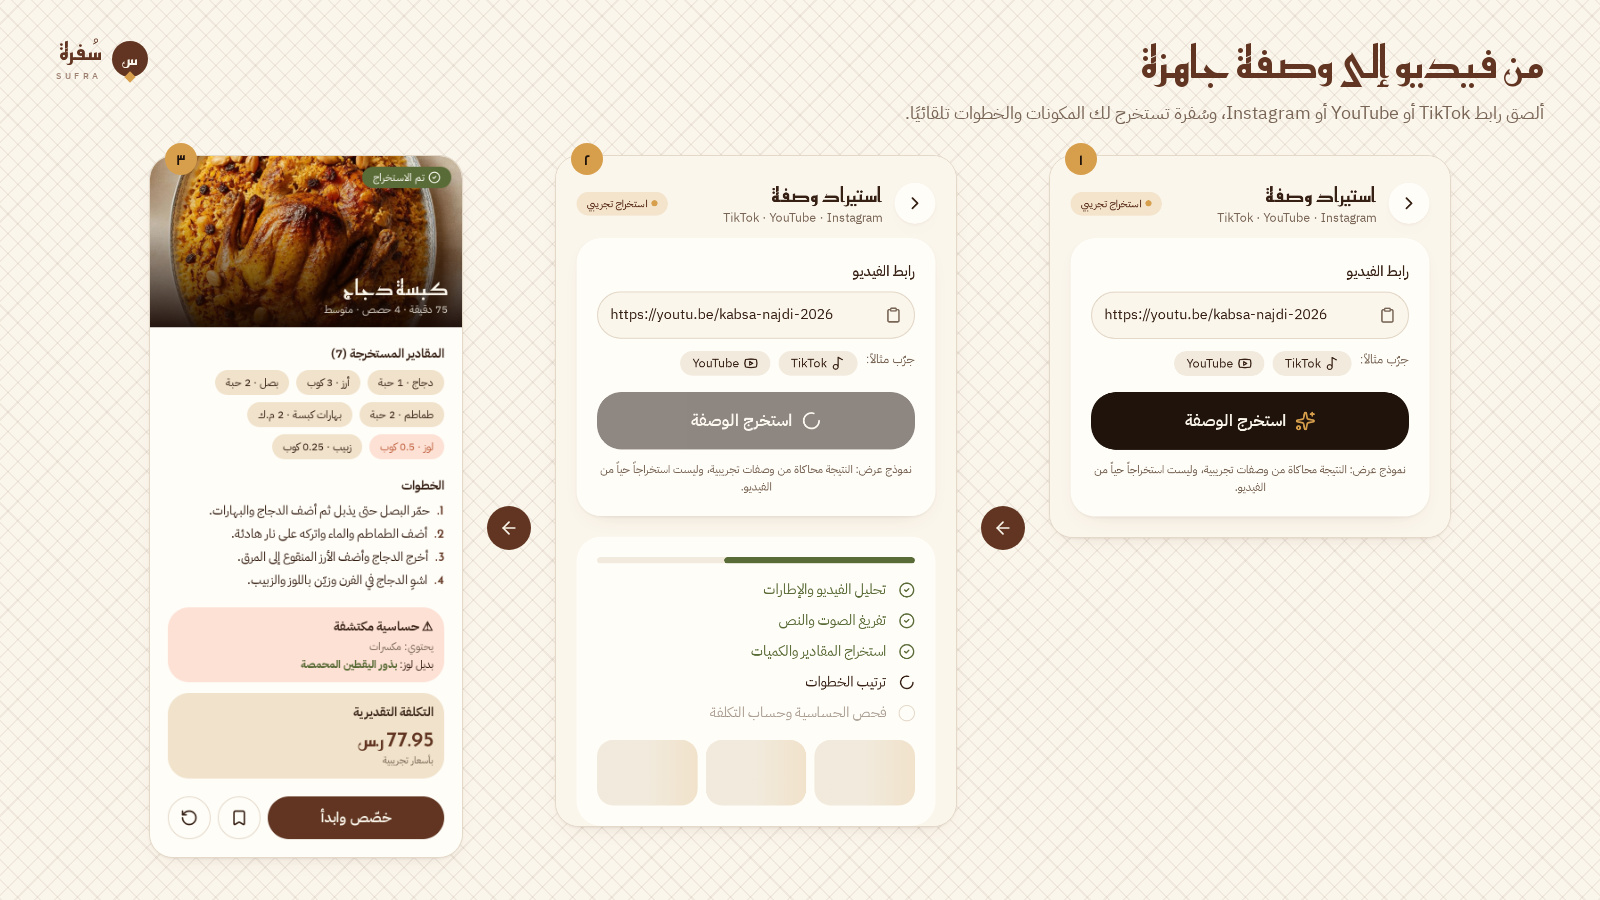
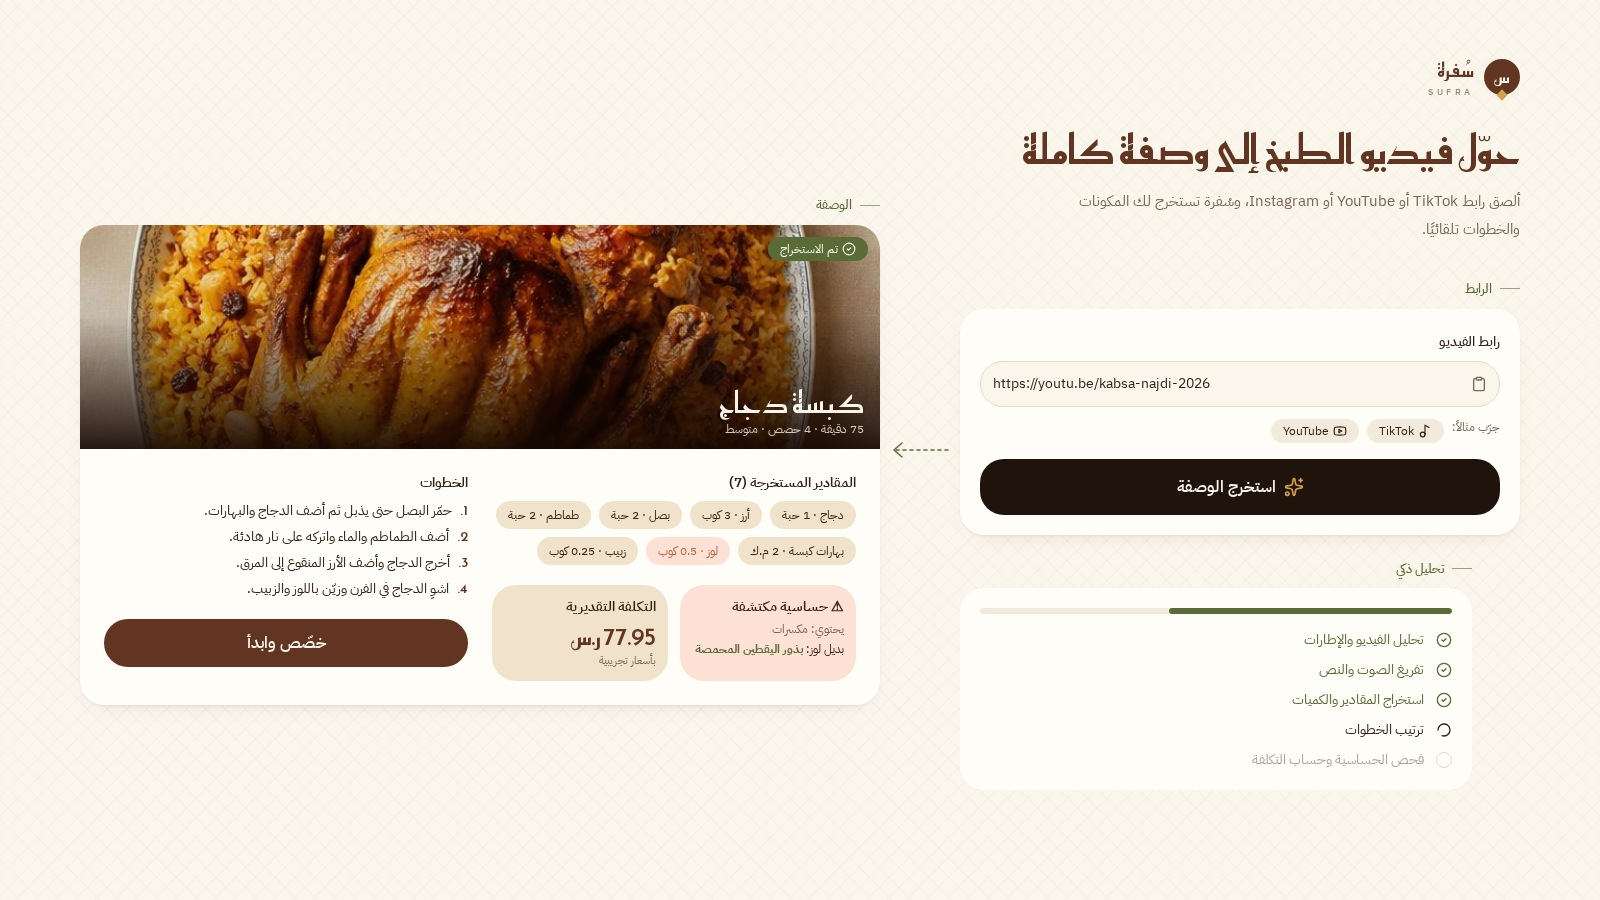
Changes

diff --git a/src/components/ImportParts.tsx b/src/components/ImportParts.tsx
@@ -93,7 +93,7 @@ export function ImportResultCard({ rid, allergies, actions, layout = "stack", im
   );
   return (
     <article className="animate-in fade-in duration-150 overflow-hidden rounded-2xl bg-card shadow-soft">
-      <div className={`relative ${wide ? "h-56" : "h-48"}`}>
+      <div className={`relative ${wide ? "h-72" : "h-48"}`}>
         <img src={r.img} alt={t(r.title)} className="h-full w-full object-cover" loading={imgEager ? "eager" : "lazy"} />
         <div className="absolute inset-0 scrim" />
         <span className="absolute start-3 top-3 flex items-center gap-1 rounded-full bg-olive px-3 py-1 text-xs text-olive-foreground"><CheckCircle2 className="h-3.5 w-3.5" /> {t("تم الاستخراج")}</span>

diff --git a/src/routes/submission-visual.tsx b/src/routes/submission-visual.tsx
@@ -26,7 +26,7 @@ function SubmissionVisual() {
   const yt = importSamples[1];
   return (
     <div dir="rtl" lang="ar" className="relative mx-auto h-[900px] w-[1600px] overflow-hidden bg-background">
-      <div className="sadu pointer-events-none absolute inset-0 opacity-40" />
+      <div className="sadu pointer-events-none absolute inset-0 opacity-30" />
       <div className="relative grid h-full grid-cols-[560px_1fr] gap-x-20 px-20 py-14">
         {/* right column (RTL start): header + supporting steps */}
         <div className="flex flex-col">
